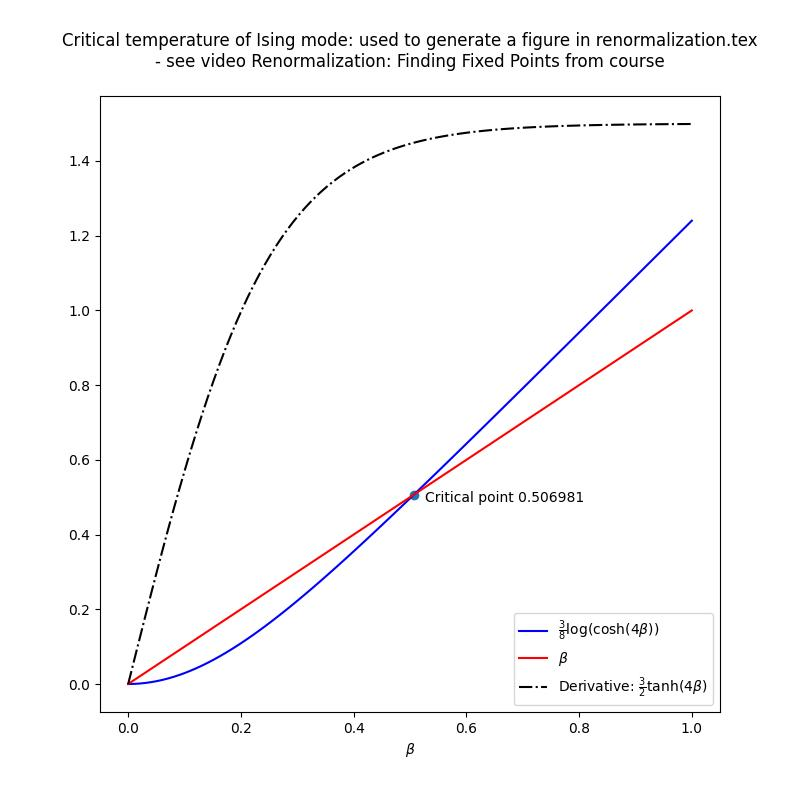
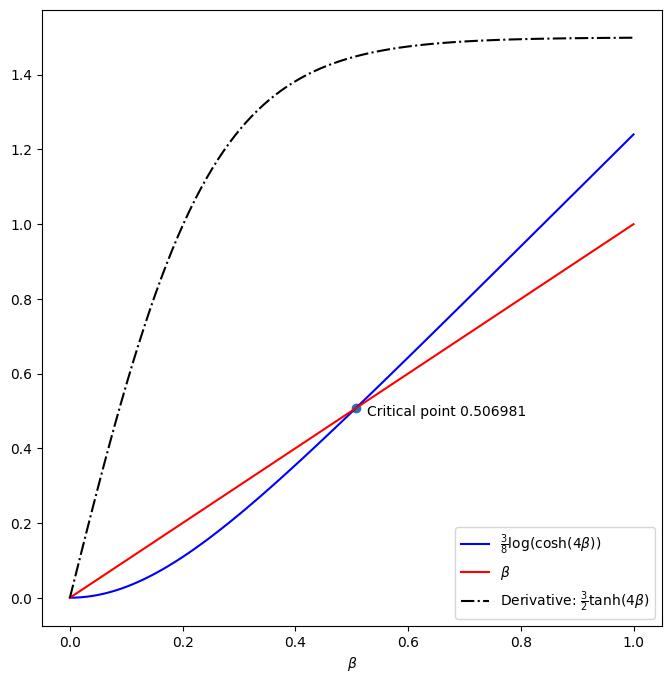
#42 Fixed diagram for Ising decimation

diff --git a/rn/renormalization.tex b/rn/renormalization.tex
@@ -3178,7 +3178,7 @@ If we can ignore couplings \ref{item:coupling2} \& \ref{item:coupling3}, we have
 \end{thm}
 
 \begin{proof}
-	We will rearrange the demonstrandum to get it into a form that is easier to prove.
+	We will rearrange the demonstrandum to get it into a simpler form.
 	\begin{align*}
 		 \frac{1}{4} \log{\cosh{4\beta}} <& \beta\\
 		 \iff&\\
@@ -3207,7 +3207,7 @@ See also \cite[Chapter 14]{kadanoff2000statistical}
 
 \subsection{Finding Fixed Points}
 
-How does model flow as we continue to coarse-grain? This replaces lattice with another  $\beta\rightarrow\frac{3}{8} \log{\cosh{4\beta} }$. Figure \ref{fig:beta} shows the behaviour of the function $\frac{3}{8} \log{\cosh{4\beta} }$ shows the evolution of the solution of  $\beta=\frac{3}{8} \log{\cosh{4\beta} }$. For small $\beta$ the solution evolves to $\beta=0$, and for large $\beta$ to $\beta=\infty$ ($T=0$).
+How does model flow as we continue to coarse-grain? This replaces the lattice with another:  $\beta\rightarrow\frac{3}{8} \log{\cosh{4\beta} }$. Figure \ref{fig:beta} shows the behaviour of the function $\frac{3}{8} \log{\cosh{4\beta} }$ shows the evolution of the solution of  $\beta=\frac{3}{8} \log{\cosh{4\beta} }$. For small $\beta$ the solution evolves to $\beta=0$, and for large $\beta$ to $\beta=\infty$ ($T=0$).
 
 
 \begin{figure}[H]

diff --git a/rn/cp.py b/rn/cp.py
@@ -29,7 +29,7 @@ def S(beta):
     '''
     return (3/8) * np.log(np.cosh(4*beta))
 
-def plot_results(beta,S_beta):
+def plot_results(beta,S_beta,verbose=False):
     '''
     Plot the solution of beta = S(beta)
     '''
@@ -43,8 +43,9 @@ def plot_results(beta,S_beta):
     ax.text(beta+0.02,S_beta-0.02,f'Critical point {beta:.6f}')
     ax.set_xlabel(r'$\beta$')
     ax.legend(loc = 'lower right')
-    ax.set_title(__doc__)
-    fig.savefig('figs/beta.jpg')
+    if verbose:
+        ax.set_title(__doc__)
+    fig.savefig('figs/beta.jpg',bbox_inches='tight')
 
 def solve(atol = 1e-12):
     '''
